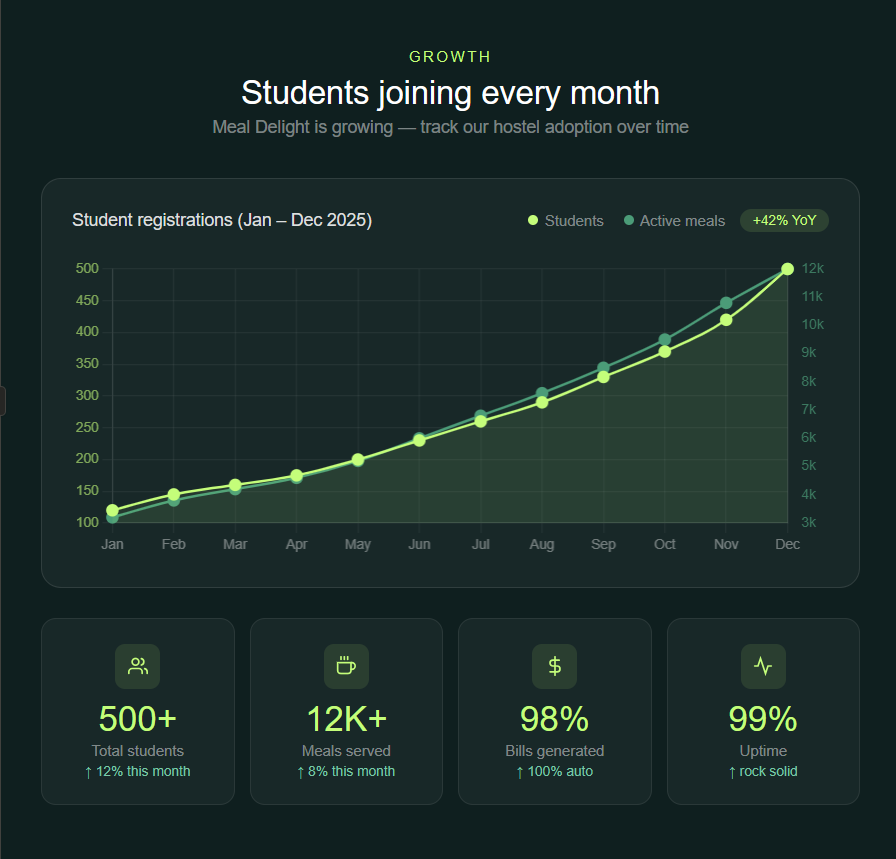
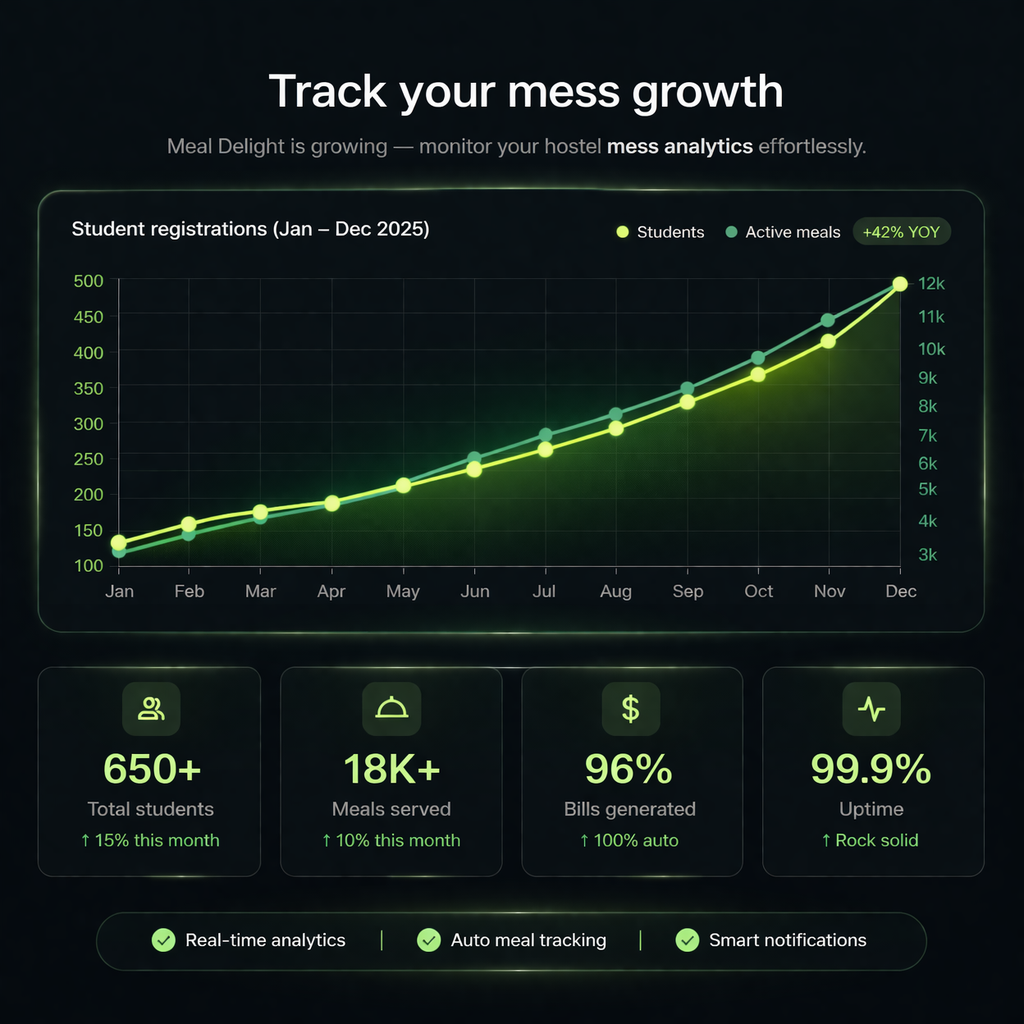
dashboard main changes

diff --git a/public/css/style.css b/public/css/style.css
@@ -167,14 +167,21 @@ nav ul {
 }
 
 .head {
-  font-size: 45px;
-  font-family: "Bebas Neue", sans-serif;
+  font-size: 56px;
+  font-weight: 800;
+  color:rgb(142, 142, 24);
+  line-height: 1.1;
+  margin-bottom: 20px;
+  font-family: 'Segoe UI', sans-serif;
+  text-align: left;
 }
 
 .cap {
-  font-family: "Segoe UI", Tahoma, Geneva, Verdana, sans-serif;
   font-size: 17px;
-  color: rgb(85, 162, 105);
+  color: rgba(255,255,255,0.8);
+  line-height: 1.6;
+  margin-bottom: 36px;
+  text-align: left;
 }
 
 .text {
@@ -185,7 +192,115 @@ nav ul {
   justify-content: center;
   align-items: center;
 }
+.front{
+  display: flex;
+  align-items: center;
+  justify-content: space-between;
+  /* gap:40px; */
+  padding: 80px 70px;
+}
 .graph {
-  padding: 40px;
+  padding-top: 30px;
   opacity: 0.9;
+  /* height: 10px; */
+
+}
+
+.texx{
+  display: flex;
+  flex-direction: column;
+  /* align-items: flex-start; */
+  max-width: 480px;
+  text-align: left;
+  /* padding-right: 20px; */
+}
+
+.buttons{
+  display: flex;
+  align-items: center;
+  gap: 12px;
+}
+.btn1 {
+  padding: 13px 28px;
+  /* background: #ffffff; */
+  border-radius: 8px;
+  font-size: 16px;
+  font-weight: 700;
+  text-decoration: none;
+
+}
+
+.btn1:hover {
+  background: #e2f5ec;
+  color: #063f27 !important;
+}
+
+.btn2 {
+  padding: 13px 28px;
+  /* color: #ffffff; */
+  border: 1.5px solid rgba(255,255,255,0.5);
+  border-radius: 8px;
+  /* font-size: 15px; */
+  text-decoration: none;
+}
+
+.btn2:hover {
+  border-color: #ffffff;
+  /* background: rgba(255,255,255,0.07); */
+  color: #ffffff !important;
+}
+
+.rightside {
+  width: 600px;
+  height: auto;
+}
+
+
+
+
+
+
+  /* <!-- you can keep if you want but it looks good thoda AI to chalta hai bc --> */
+.chart-card {
+  background: rgba(0,0,0,0.3);
+  border: 1px solid rgba(255,255,255,0.1);
+  border-radius: 20px;
+  padding:40px;
+}
+
+.chart-top {
+  display: flex;
+  justify-content: space-between;
+  align-items: center;
+  font-size: 11px;
+  color: rgba(255,255,255,0.45);
+  margin-bottom: 12px;
+}
+
+.yoy {
+  background: #1d9e75;
+  color: #ffffff;
+  padding: 3px 10px;
+  border-radius: 4px;
+  font-weight: 700;
+  font-size: 11px;
+}
+
+.chart-stats {
+  display: flex;
+  justify-content: space-between;
+  margin-top: 14px;
+  text-align: left;
+}
+
+.chart-stats strong {
+  display: block;
+  font-size: 20px;
+  font-weight: 700;
+  color: #fff;
+}
+
+.chart-stats span {
+  font-size: 11px;
+  color: rgba(255,255,255,0.45);
 }

diff --git a/public/css/footer.css b/public/css/footer.css
@@ -7,7 +7,8 @@
   right: 0%;
   margin-left: 50vw;
   margin-right: 50vw;
-  background: linear-gradient(135deg, #1f7b51, #064d31);
+  /* background: linear-gradient(135deg, #1f7b51, #064d31) */
+  background: linear-gradient(135deg, #0f5132, #198754);
   /* border-radius: 20px; */
   padding: 40px;
   display: flex;
